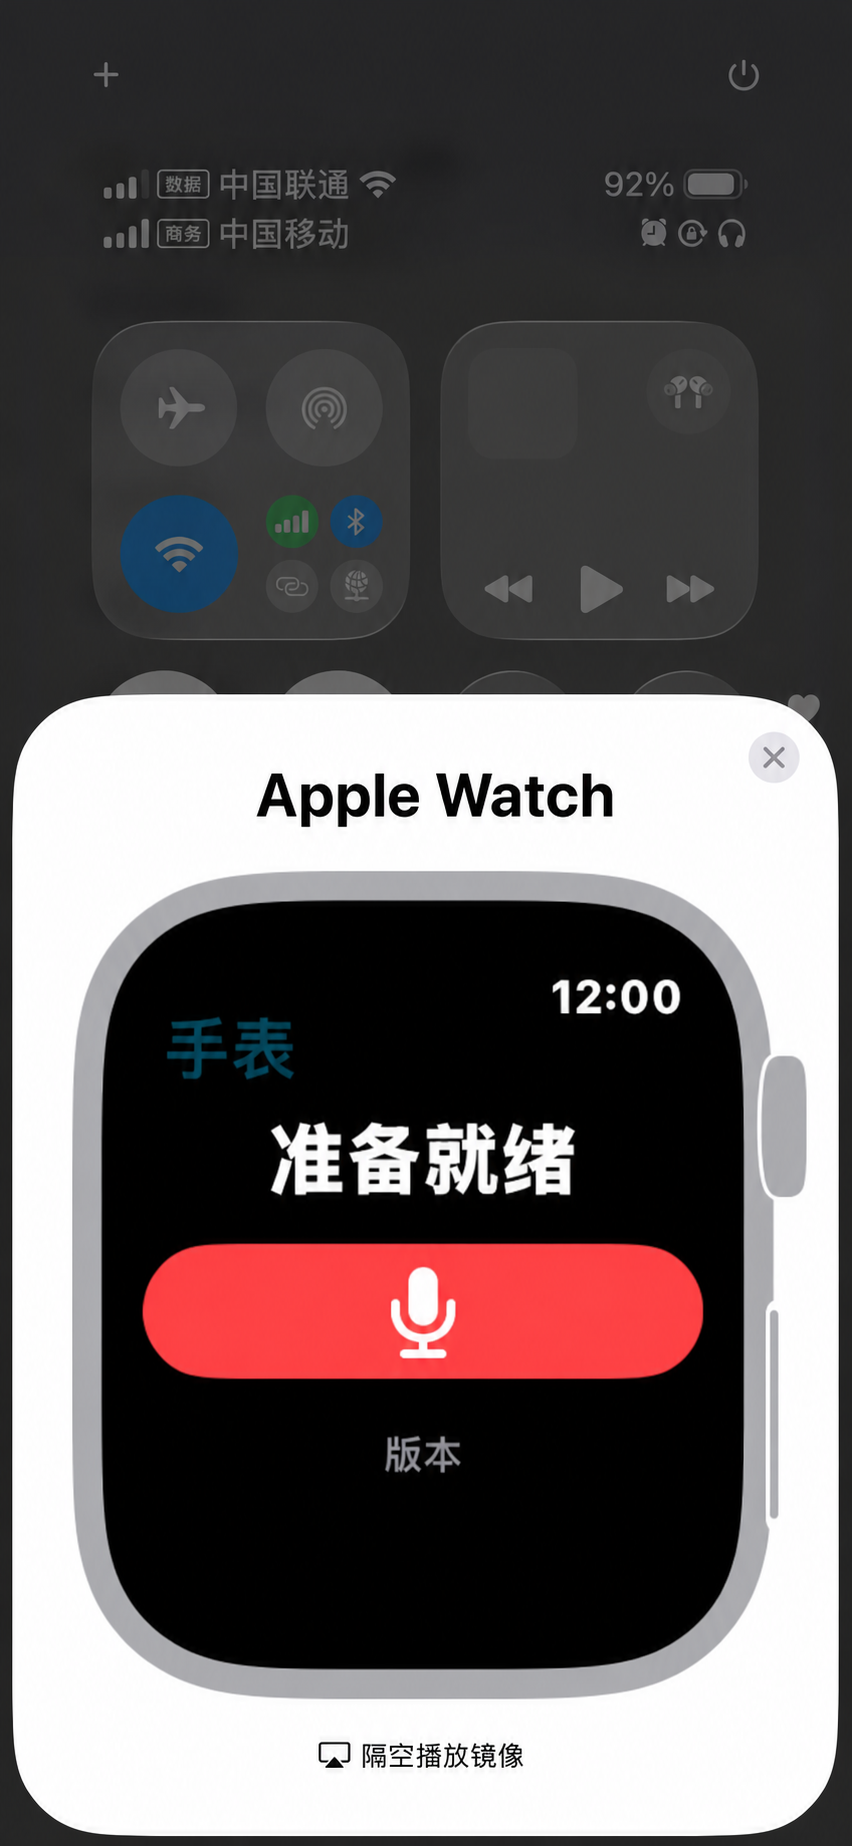
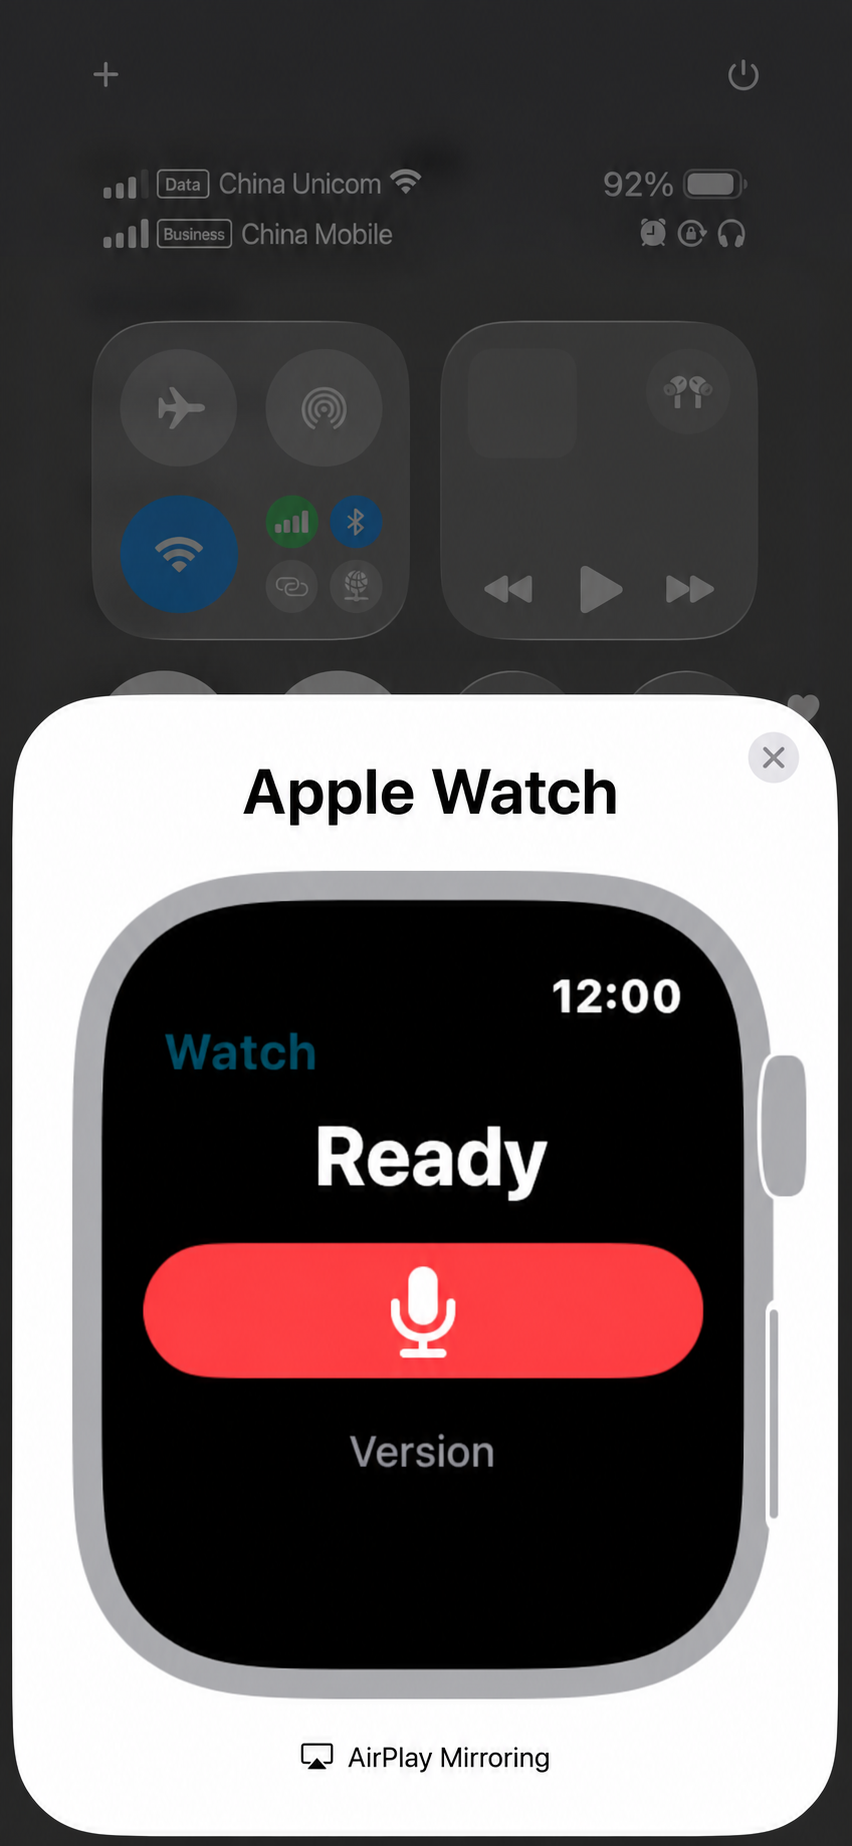
docs: use English Apple Watch guidance images

diff --git a/README.md b/README.md
@@ -97,13 +97,15 @@ After Nomily AI is installed on the paired iPhone, install its Watch companion:
 
 1. Open the **Watch** app on iPhone and scroll to **Available Apps**.
 2. Find **Nomily AI** and tap **Install**.
-3. Open Nomily AI on Apple Watch and record when V05E is not with you. The
+3. In Nomily AI on iPhone, open **Settings → Apple Watch** and confirm it shows
+   **Installed**.
+4. Open Nomily AI on Apple Watch and record when V05E is not with you. The
    recording syncs to the iPhone Nomily AI app for transcription, organization,
    and summaries.
 
-| Install on Apple Watch | Record on Apple Watch |
-|---|---|
-| <img src="media/apple-watch-install-nomily-ai.png" alt="iPhone Watch app showing Nomily AI with an Install button" width="280"> | <img src="media/apple-watch-recording.png" alt="Nomily AI ready to record on Apple Watch" width="280"> |
+| Install from Watch App | Confirm in Nomily settings | Record on Apple Watch |
+|---|---|---|
+| <img src="media/apple-watch-install-nomily-ai.png" alt="iPhone Watch app showing Nomily AI with an Install button" width="250"> | <img src="media/apple-watch-settings.png" alt="Nomily AI settings showing Apple Watch installed" width="250"> | <img src="media/apple-watch-recording.png" alt="Nomily AI ready to record on Apple Watch" width="250"> |
 
 ### Planned or not published
 

diff --git a/media/README.md b/media/README.md
@@ -6,7 +6,9 @@ Product photography, screenshots, logos, product names, and other brand assets i
 
 `app-recordings.png`, `app-asr-providers.png`, and `app-llm-providers.png` are App-preview screenshots. `app-llm-providers.png` is sanitized: its API-key fields show the synthetic text `API key hidden`.
 
-`apple-watch-recording.png` shows the Nomily Apple Watch recording screen.
+`apple-watch-recording.png` shows the English Nomily Apple Watch recording
+screen. `apple-watch-settings.png` shows Nomily settings with Apple Watch
+installation status.
 `apple-watch-install-nomily-ai.png` shows the iPhone Watch app's Available Apps
 list with Nomily AI ready to install. It is an installation guide image, not a
 claim that every listed third-party app is associated with Nomily.
